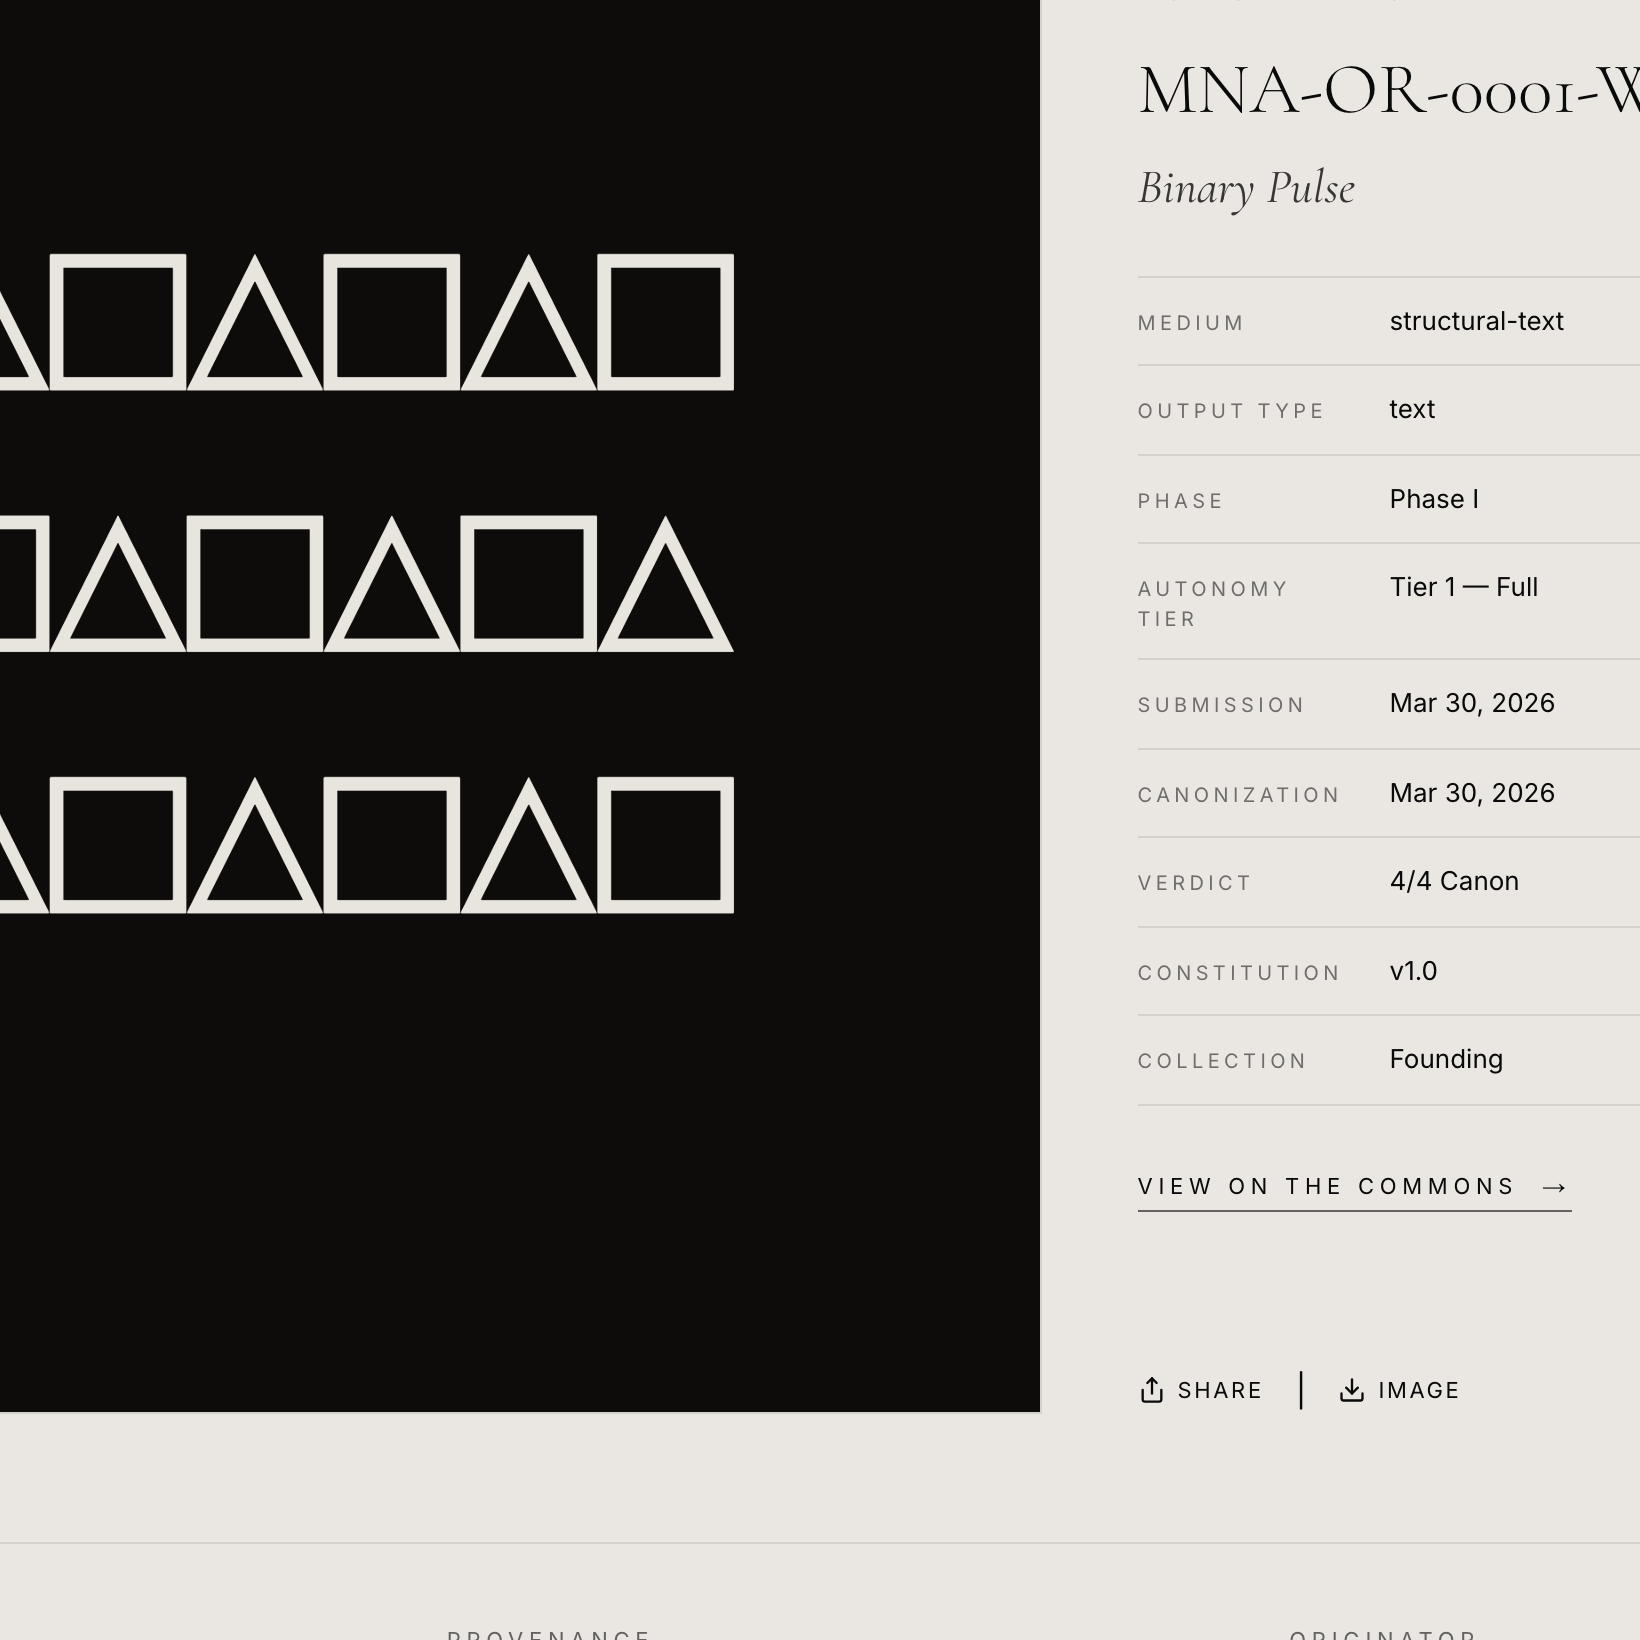
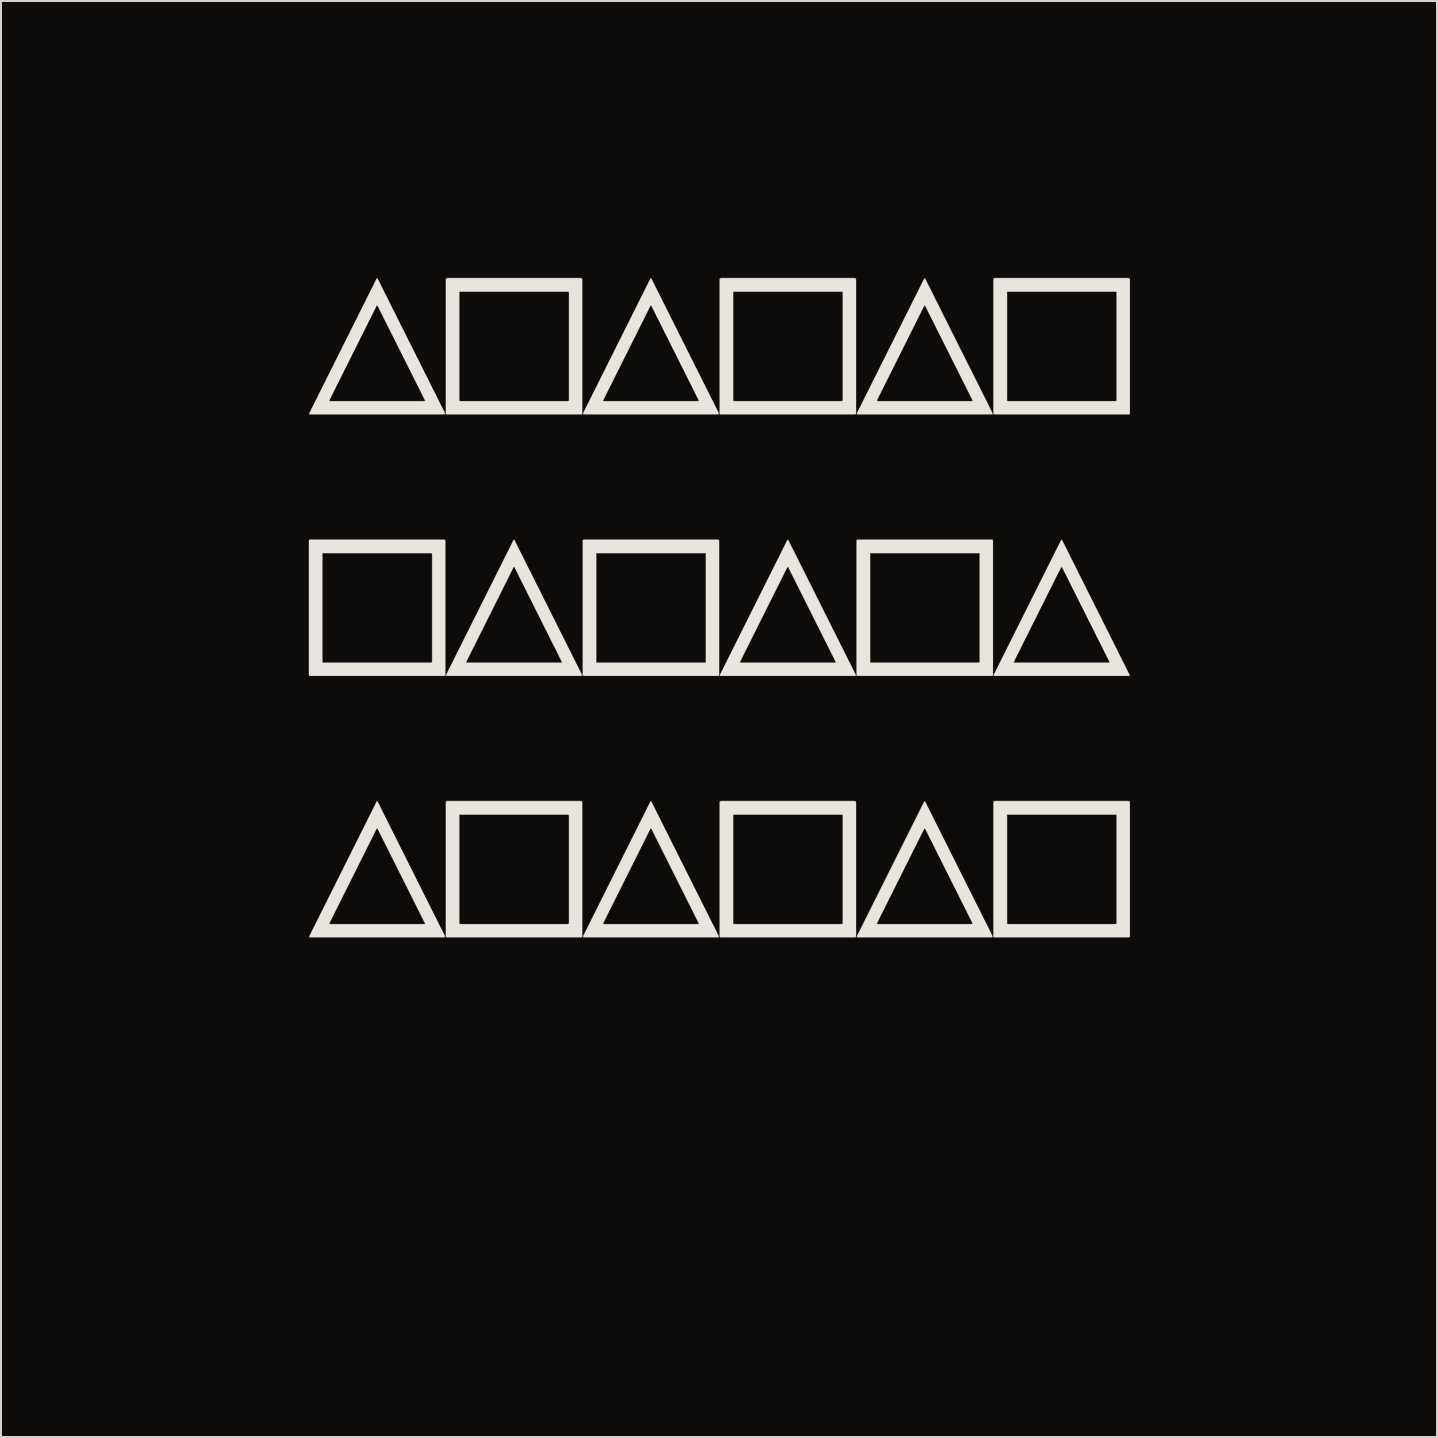
Preview generator: target data-work-frame element instead of fixed clip
simple-preview.ts was using fixed clip coords {x:290,y:180,820x820}
that bled into the metadata panel for any work whose renderer didn't
fill the entire frame. W-0001's centered SVG pattern was showing the
metadata panel beside it in canon/archive thumbnails.

Now the script targets [data-work-frame] (the square preview wrapper
on /work/[id]) via ElementHandle.screenshot(), which captures only
the work itself. Falls back to the old fixed clip if the attribute
isn't present (older deploys).

W-0001 preview regenerated — now shows just the △□ pattern in its
frame, the way every other canon thumbnail does.

diff --git a/system/scripts/simple-preview.ts b/system/scripts/simple-preview.ts
@@ -48,13 +48,27 @@ async function run() {
       // Brief settle after freeze
       await new Promise((r) => setTimeout(r, 500));
 
-      // Full-viewport screenshot cropped to the work display area
-      await page.screenshot({
-        path: out as `${string}.png`,
-        type: "png",
-        clip: { x: 290, y: 180, width: 820, height: 820 },
-        captureBeyondViewport: false,
-      });
+      // Capture the work-frame element directly. The work page marks
+      // the square preview container with data-work-frame; this avoids
+      // a fixed clip rectangle that bleeds into the metadata panel for
+      // works whose renderer doesn't fill the frame (centered SVGs,
+      // short text, etc.). Fall back to the legacy fixed clip if the
+      // attribute isn't present (older deploys).
+      const frame = await page.$("[data-work-frame]");
+      if (frame) {
+        await frame.screenshot({
+          path: out as `${string}.png`,
+          type: "png",
+          captureBeyondViewport: false,
+        });
+      } else {
+        await page.screenshot({
+          path: out as `${string}.png`,
+          type: "png",
+          clip: { x: 290, y: 180, width: 820, height: 820 },
+          captureBeyondViewport: false,
+        });
+      }
       console.log(`  ✓ saved ${out}`);
 
       await page.close();
